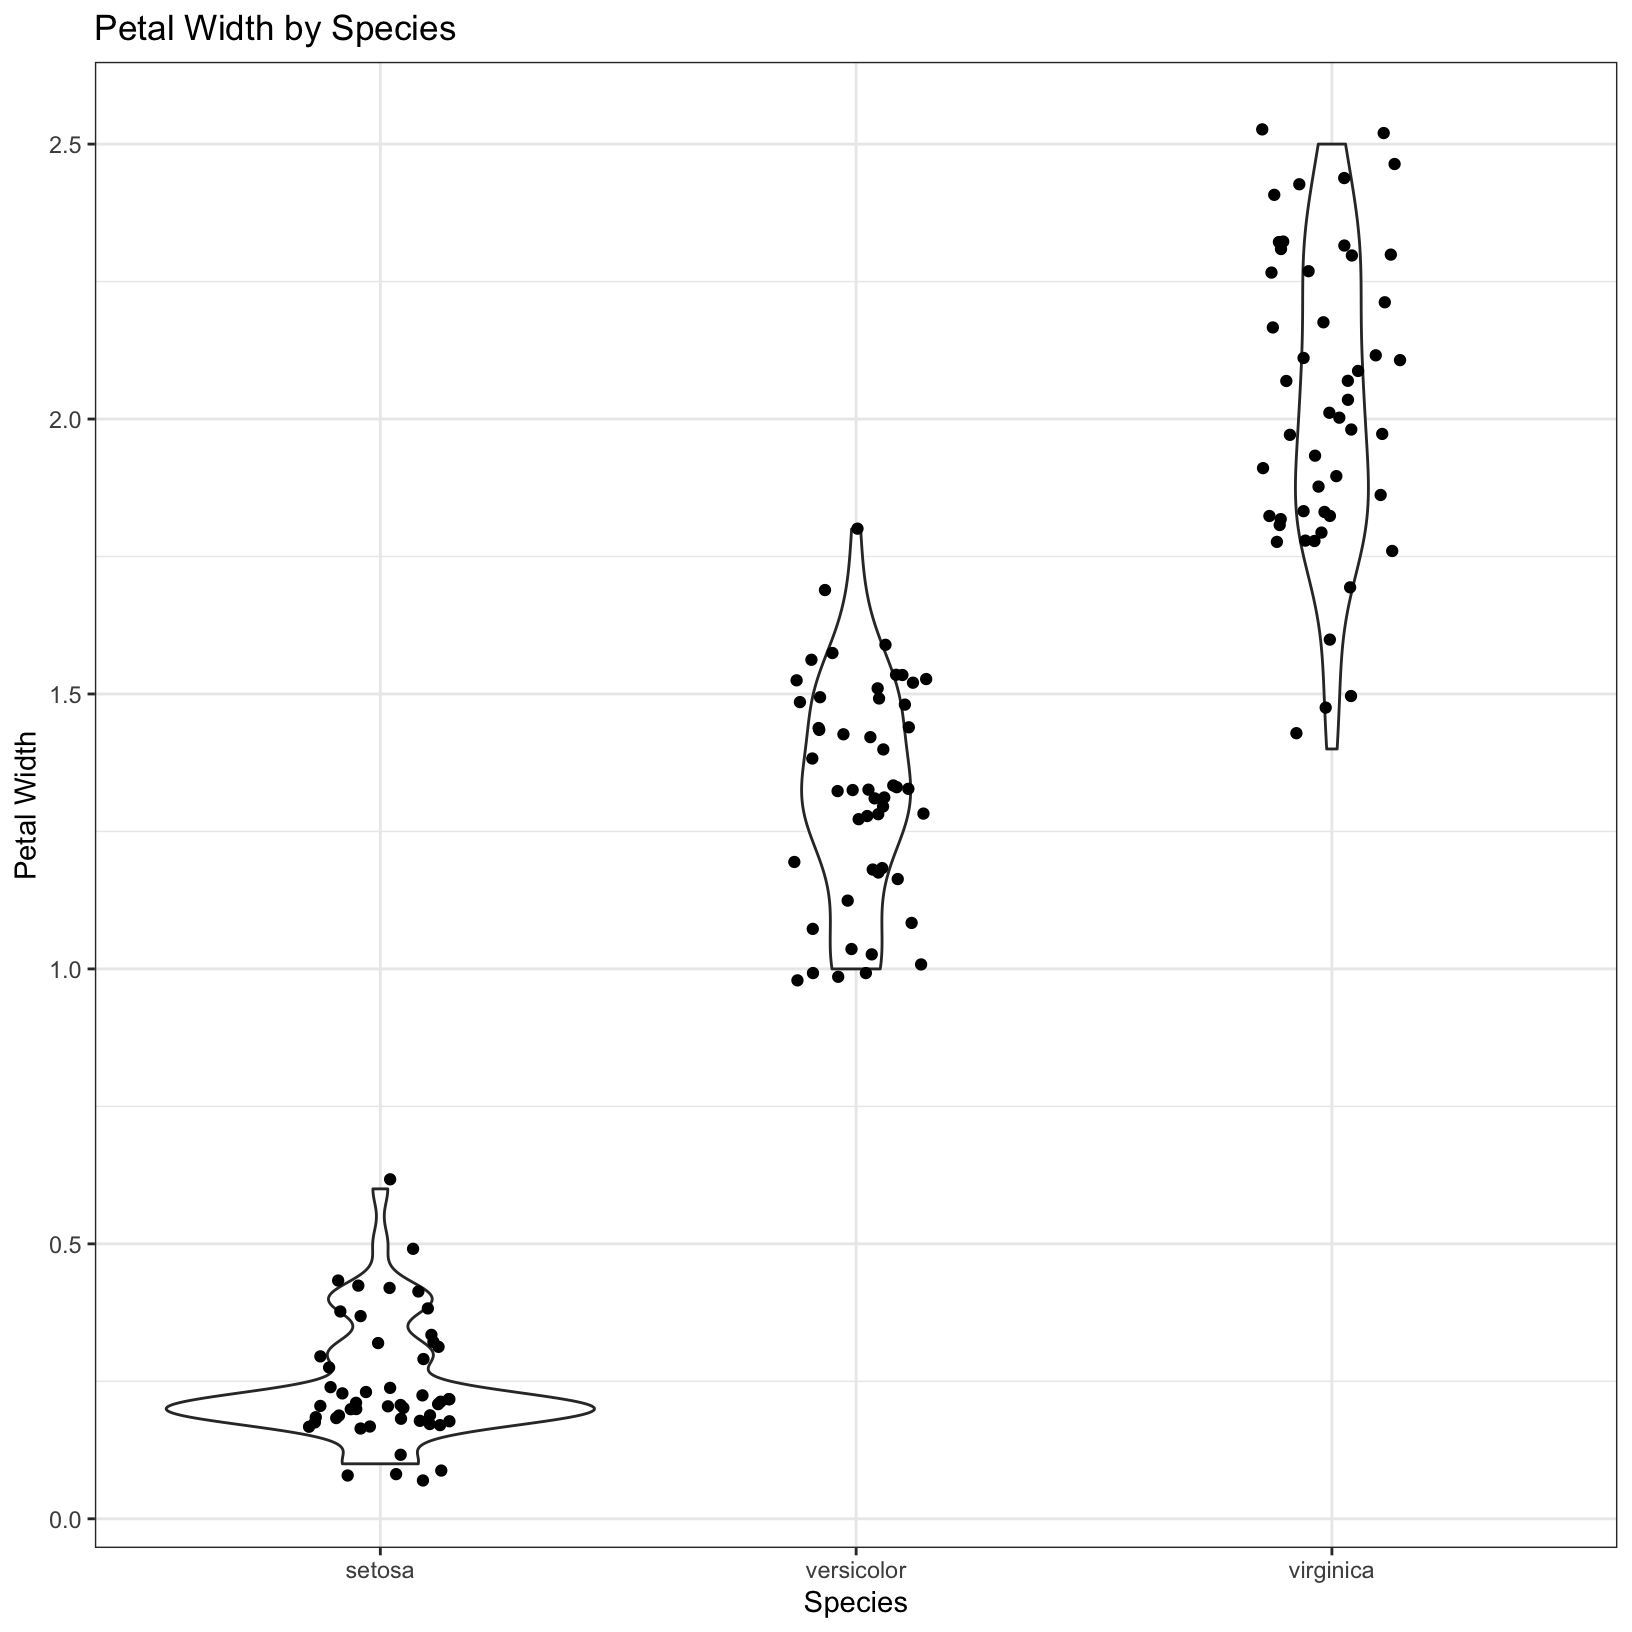
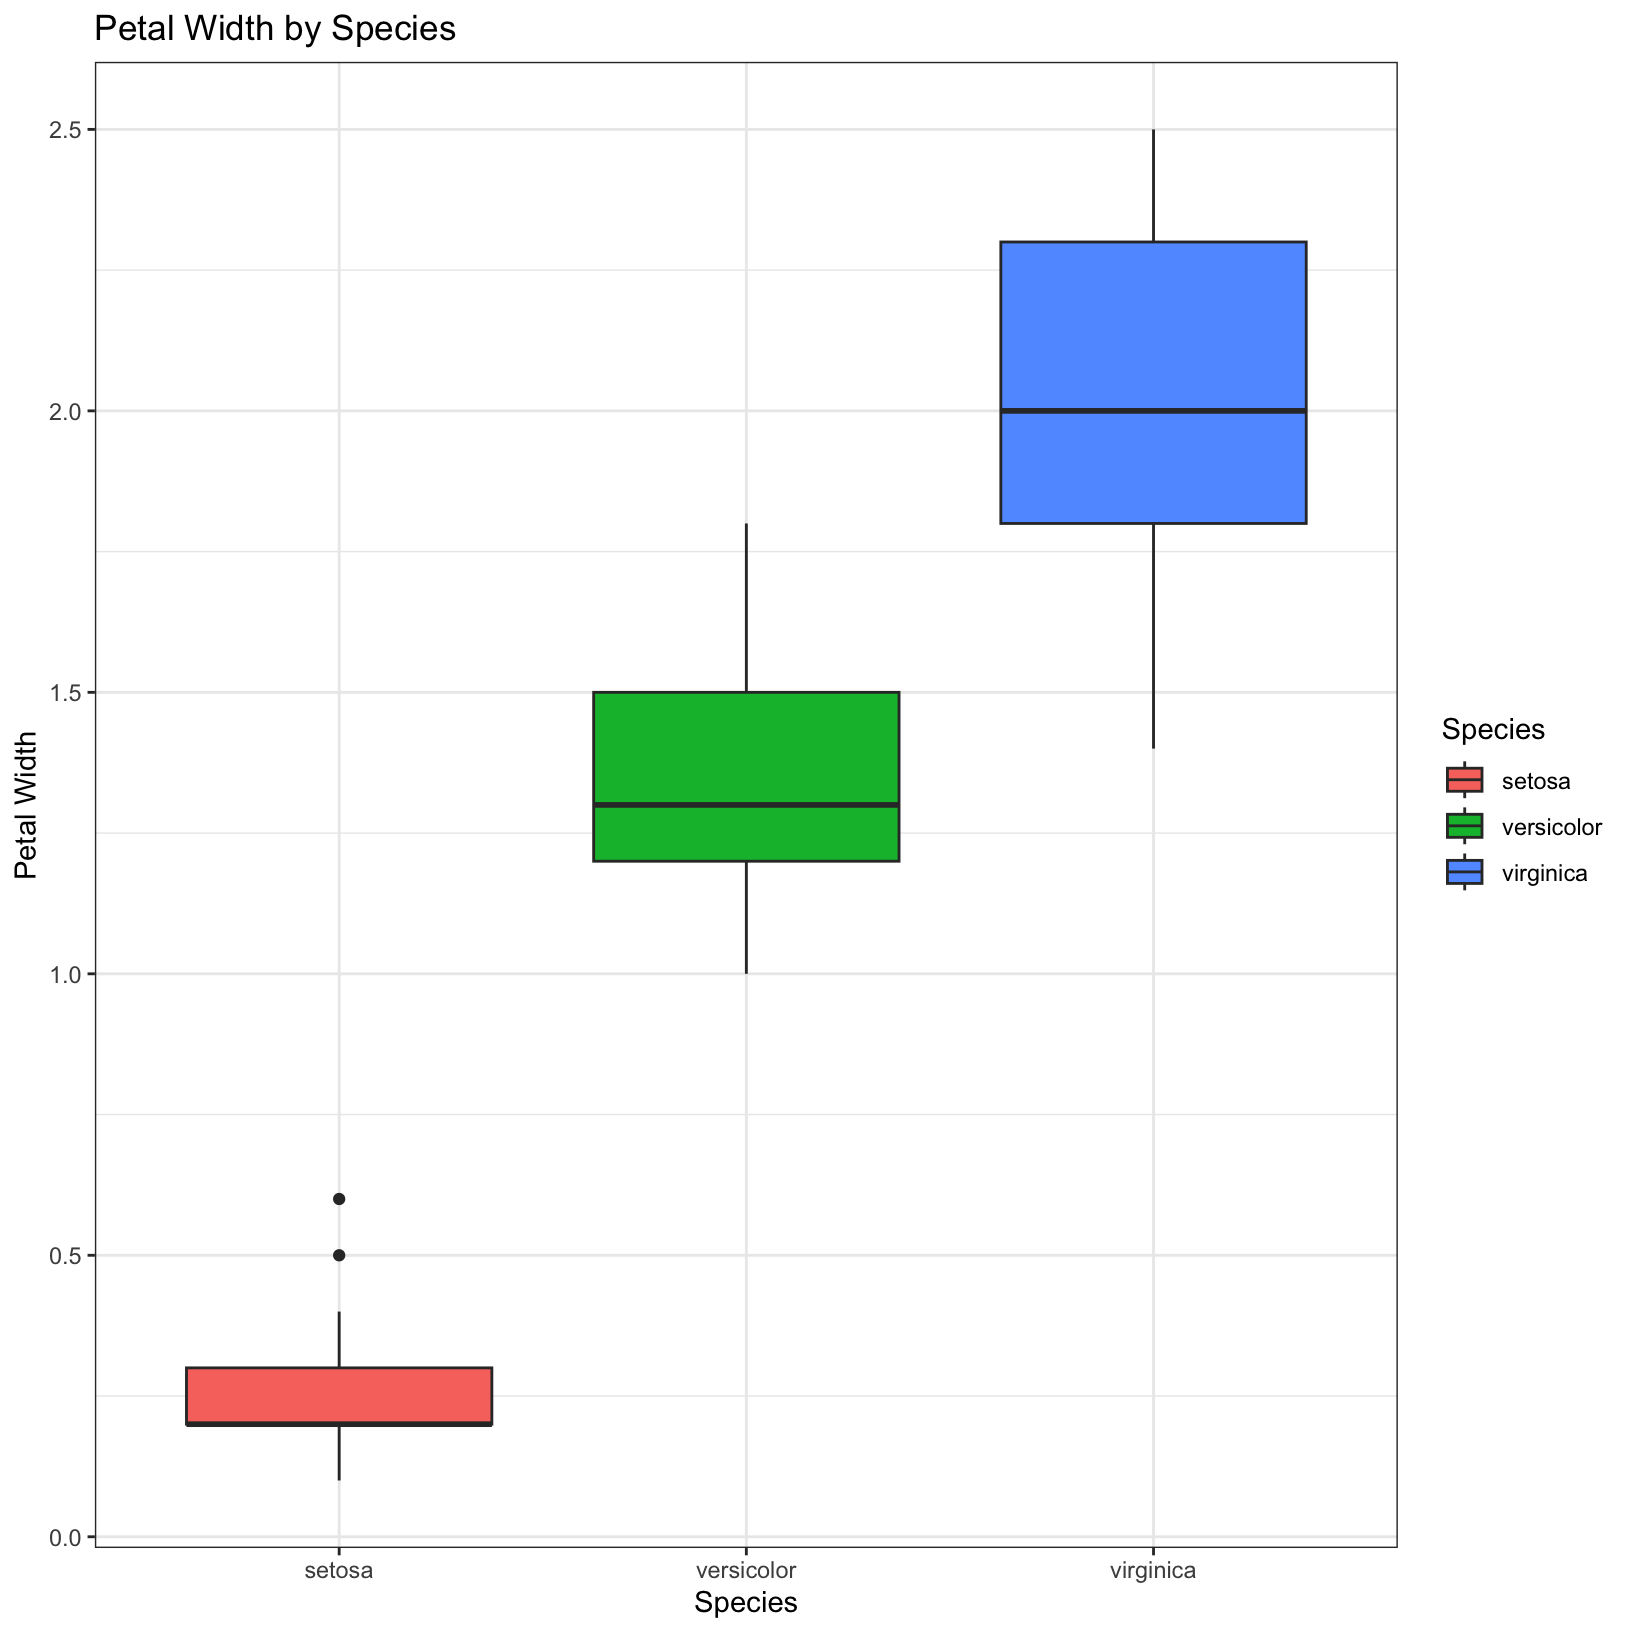
Leftover changes

diff --git a/html/welcome.html b/html/welcome.html
@@ -319,8 +319,16 @@ manipulation and visualization. We’ll go into more depth on those
 functions as the day goes on. The <code>rmarkdown</code> and
 <code>knitr</code> packages “knit” the R Markdown document into a
 polished web page.</p>
-<pre class="r"><code>library(tidyverse)
-library(rmarkdown)
+<pre class="r"><code>library(tidyverse)</code></pre>
+<pre><code>── Attaching packages ─────────────────────────────────────── tidyverse 1.3.2 ──
+✔ ggplot2 3.4.1     ✔ purrr   1.0.1
+✔ tibble  3.1.8     ✔ dplyr   1.1.0
+✔ tidyr   1.3.0     ✔ stringr 1.5.0
+✔ readr   2.1.4     ✔ forcats 1.0.0
+── Conflicts ────────────────────────────────────────── tidyverse_conflicts() ──
+✖ dplyr::filter() masks stats::filter()
+✖ dplyr::lag()    masks stats::lag()</code></pre>
+<pre class="r"><code>library(rmarkdown)
 library(knitr)</code></pre>
 </div>
 <div id="built-in-data" class="section level2">
@@ -391,13 +399,20 @@ format it as a nice table.</p>
 <p>We can summarize the data by using the built-in R function
 <code>summary()</code>.</p>
 <pre class="r"><code>summary(iris)</code></pre>
-<pre><code>  Sepal.Length    Sepal.Width     Petal.Length    Petal.Width          Species  
- Min.   :4.300   Min.   :2.000   Min.   :1.000   Min.   :0.100   setosa    :50  
- 1st Qu.:5.100   1st Qu.:2.800   1st Qu.:1.600   1st Qu.:0.300   versicolor:50  
- Median :5.800   Median :3.000   Median :4.350   Median :1.300   virginica :50  
- Mean   :5.843   Mean   :3.057   Mean   :3.758   Mean   :1.199                  
- 3rd Qu.:6.400   3rd Qu.:3.300   3rd Qu.:5.100   3rd Qu.:1.800                  
- Max.   :7.900   Max.   :4.400   Max.   :6.900   Max.   :2.500                  </code></pre>
+<pre><code>  Sepal.Length    Sepal.Width     Petal.Length    Petal.Width   
+ Min.   :4.300   Min.   :2.000   Min.   :1.000   Min.   :0.100  
+ 1st Qu.:5.100   1st Qu.:2.800   1st Qu.:1.600   1st Qu.:0.300  
+ Median :5.800   Median :3.000   Median :4.350   Median :1.300  
+ Mean   :5.843   Mean   :3.057   Mean   :3.758   Mean   :1.199  
+ 3rd Qu.:6.400   3rd Qu.:3.300   3rd Qu.:5.100   3rd Qu.:1.800  
+ Max.   :7.900   Max.   :4.400   Max.   :6.900   Max.   :2.500  
+       Species  
+ setosa    :50  
+ versicolor:50  
+ virginica :50  
+                
+                
+                </code></pre>
 <p>We can also use some functions in the <code>dplyr</code> package to
 extract summaries we can define, and then use the <code>kable()</code>
 function to format the table as we did above.</p>
@@ -459,8 +474,8 @@ different the petal widths can be among different species of irises. We
 do familiar things like decide what should be on the x-axis, y-axis, and
 what kind of plot we want. We can also change the axis labels, the plot
 title, and much more.</p>
-<pre class="r"><code>ggplot(iris, aes(x = Species, y = Petal.Width)) + 
-    geom_violin() + geom_jitter(width = 0.15) + 
+<pre class="r"><code>ggplot(iris, aes(x = Species, y = Petal.Width, fill = Species)) + 
+    geom_boxplot() +
     theme_bw() + 
     labs(title = &#39;Petal Width by Species&#39;, x = &#39;Species&#39; , y = &#39;Petal Width&#39;)</code></pre>
 <p><img src="fig/welcome-visualize_iris-1.png" width="816" style="display: block; margin: auto;" /></p>
